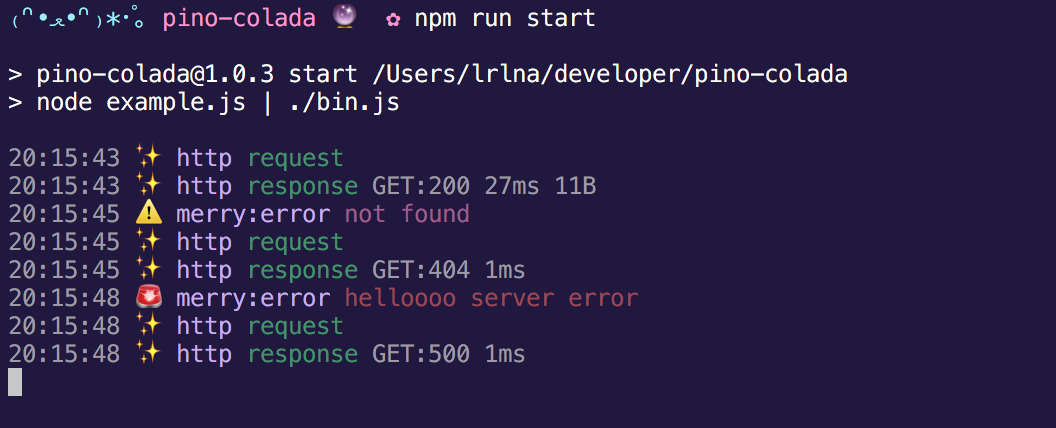
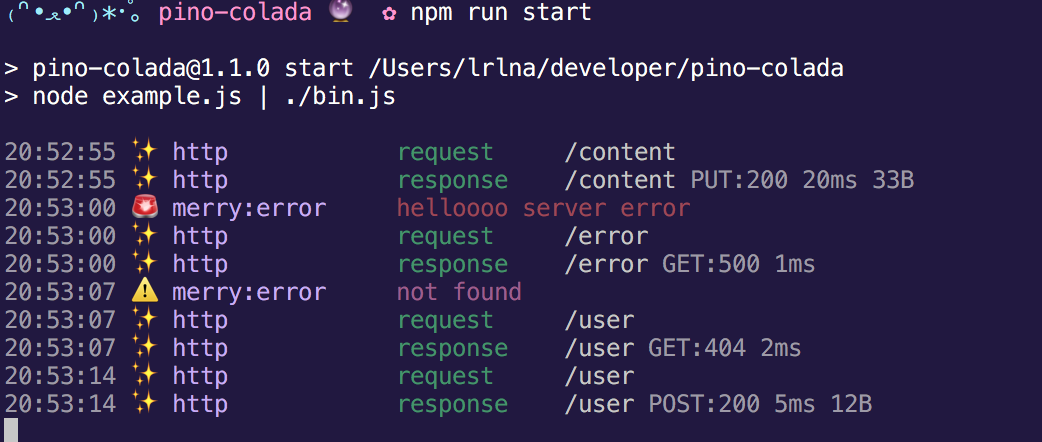
display routes

diff --git a/index.js b/index.js
@@ -1,6 +1,7 @@
 var prettyBytes = require('prettier-bytes')
 var jsonParse = require('fast-json-parse')
 var prettyMs = require('pretty-ms')
+var padRight = require('pad-right')
 var padLeft = require('pad-left')
 var split = require('split2')
 var chalk = require('chalk')
@@ -48,8 +49,9 @@ function PinoColada () {
 
     output.push(formatDate())
     output.push(formatLevel(obj.level))
-    output.push(chalk.blue(obj.name))
+    output.push(formatName(obj.name))
     output.push(formatMessage(obj))
+    if (obj.url) output.push(formatUrl(obj.url))
     if (obj.method && obj.statusCode) output.push(formatMethod(obj.method, obj.statusCode))
     if (obj.elapsed) output.push(formatLoadTime(obj.elapsed))
     if (obj.contentLength) output.push(formatBundleSize(obj.contentLength))
@@ -70,6 +72,27 @@ function PinoColada () {
     return emojiLog[level] + ' '
   }
 
+  function formatName (name) {
+    return padRight(chalk.blue(name), 25, ' ')
+  }
+
+  function formatMessage (obj) {
+    return padRight(format(obj), 30, ' ')
+
+    function format (obj) {
+      if (obj.level === 'error') return chalk.dim.red(obj.message)
+      if (obj.level === 'trace') return chalk.dim.white(obj.message)
+      if (obj.level === 'warn') return chalk.dim.magenta(obj.message)
+      if (obj.level === 'debug') return chalk.dim.yellow(obj.message)
+      if (obj.level === 'fatal') return chalk.bgRed(obj.message) + nl + obj.stack
+      if (obj.level === 'info' || obj.level === 'userlvl') return chalk.dim.green(obj.message)
+    }
+  }
+
+  function formatUrl (url) {
+    return chalk.white(url)
+  }
+
   function formatMethod (method, status) {
     var newStatus = method + ':' + status
     return chalk.dim(newStatus)
@@ -85,14 +108,5 @@ function PinoColada () {
     var bytes = parseInt(bundle, 10)
     var size = bytes > 9999 ? prettyBytes(bytes) : bytes + 'B'
     return chalk.dim(size)
-  }
-
-  function formatMessage (obj) {
-    if (obj.level === 'error') return chalk.dim.red(obj.message)
-    if (obj.level === 'trace') return chalk.dim.white(obj.message)
-    if (obj.level === 'warn') return chalk.dim.magenta(obj.message)
-    if (obj.level === 'debug') return chalk.dim.yellow(obj.message)
-    if (obj.level === 'fatal') return chalk.bgRed(obj.message) + nl + obj.stack
-    if (obj.level === 'info' || obj.level === 'userlvl') return chalk.dim.green(obj.message)
   }
 }

diff --git a/example.js b/example.js
@@ -9,6 +9,16 @@ app.router([
   [ '/', function (req, res, ctx, done) {
     done(null, 'hello world')
   }],
+  [ '/user', {
+    post: function (req, res, ctx, done) {
+      done(null, 'new user ✨')
+    }
+  }],
+  [ '/content', {
+    put: function (req, res, ctx, done) {
+      done(null, 'ou weee here is some updated info')
+    }
+  }],
   [ '/error', function (req, res, ctx, done) {
     done(error({ statusCode: 500, message: 'helloooo server error' }))
   }],
